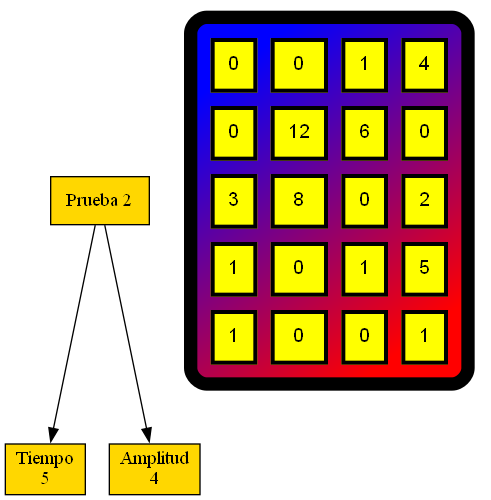
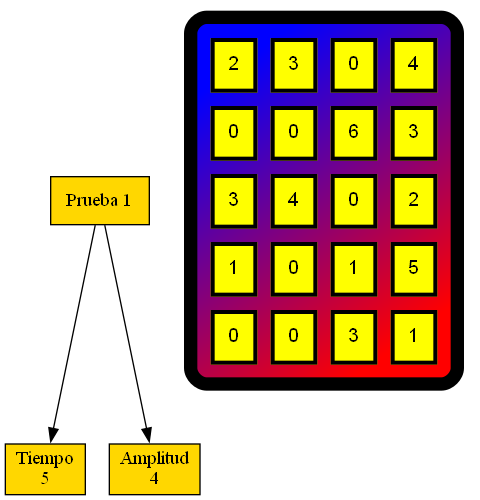
intento de suma de matriz

diff --git a/lista_signals.py b/lista_signals.py
@@ -50,7 +50,7 @@ class lista_signals:
         print("")
 
     def calcular_los_patrones(self,nombre_signal):
-        # recorremos la lista de carceles hasta encontrar una coincidencia
+        # recorremos la lista de signals hasta encontrar una coincidencia
         actual = self.primero
         while actual != None:
         # Si entra al if, es por que encontramos la signall que queremos
@@ -78,41 +78,18 @@ class lista_signals:
                         buffer=""
                 actual.signall.lista_grupos.recorrer_e_imprimir_lista()
 
-                
                 return
             actual=actual.siguiente
         print ("No se encontró la signall")
 
 
-    def imprimir_nombre_signals(self):
-        print("XXXXXXXXXXXXXXXXXXXXXXXXXXXXXXXXXXXXXXXXXXXXXXXXXXXXXXXXXXXXXXXXX")
-        actual = self.primero
-        while actual != None:
-            print(actual.signall.nombre)
-            actual = actual.siguiente
-        print("XXXXXXXXXXXXXXXXXXXXXXXXXXXXXXXXXXXXXXXXXXXXXXXXXXXXXXXXXXXXXXXXX")
-
-    # def grafica_mi_lista_original(self):
+    # def imprimir_nombre_signals(self):
+    #     print("XXXXXXXXXXXXXXXXXXXXXXXXXXXXXXXXXXXXXXXXXXXXXXXXXXXXXXXXXXXXXXXXX")
     #     actual = self.primero
     #     while actual != None:
-    #         dot = actual.signall.lista_datos.graficar(actual.signall.nombre,
-    #                                                    str(actual.signall.tiempo),
-    #                                                    str(actual.signall.amplitud))
-    #         # actual.signal.lista_patrones_dato.recorrer_e_imprimir_lista()
+    #         print(actual.signall.nombre)
     #         actual = actual.siguiente
-
-        # return dot
-
-    def grafica_mi_lista_de_patrones(self):
-        actual = self.primero
-        while actual != None:
-            dot= actual.signall.lista_patrones_datos.graficar(actual.signall.nombre,
-                                                                str(actual.signall.tiempo),
-                                                                str(actual.signall.amplitud))
-            # actual.signal.lista_patrones_dato.recorrer_e_imprimir_lista()
-            actual = actual.siguiente
-
-        return dot
+    #     print("XXXXXXXXXXXXXXXXXXXXXXXXXXXXXXXXXXXXXXXXXXXXXXXXXXXXXXXXXXXXXXXXX")
 
     # graficar mi_lista_original colocando el nombre de la señal
     def graficar_mi_lista_original(self, nombre_signal):
@@ -122,6 +99,18 @@ class lista_signals:
                 dot = actual.signall.lista_datos.graficar(actual.signall.nombre,
                                                            str(actual.signall.tiempo),
                                                            str(actual.signall.amplitud))
+                # actual.signal.lista_patrones_dato.recorrer_e_imprimir_lista()
+                return dot
+            actual = actual.siguiente
+
+    # graficar lista_patrones_datos colocando el nombre de la señal
+    def graficar_lista_patrones_datos(self, nombre_signal):
+        actual = self.primero
+        while actual != None:
+            if actual.signall.nombre == nombre_signal:
+                dot = actual.signall.lista_grupos.graficar(actual.signall.nombre,
+                                                                    str(actual.signall.tiempo),
+                                                                    str(actual.signall.amplitud))
                 # actual.signal.lista_patrones_dato.recorrer_e_imprimir_lista()
                 return dot
             actual = actual.siguiente

diff --git a/lista_datos.py b/lista_datos.py
@@ -92,13 +92,15 @@ a0 [shape=none label=<
 }        
 """
         return text
-    
 
     def devolver_cadena_del_grupo(self,grupo):
         string_resultado=""
         string_temporal=""
         buffer=""
-        # viene un parametro llamado grupo, es un string con este formato "1,2"
+        string_temporal2=""
+        string_auxiliar=""
+        contador=0
+        # viene un parametro llamado grupo, es un string con este formato "1,3"
         # recorremos caracter por caracter
         for digito in grupo:
         #si es digito
@@ -108,15 +110,34 @@ a0 [shape=none label=<
             else:
                 # si no es buffer, lo vaciamos
                 string_temporal=""
-                #recorremos la lista y recuperamos los valores para este grupo
+                string_temporal2=""
+                string_resultado=""
+                #recorremos *TODA* la lista y recuperamos los valores para este grupo
                 actual = self.primero
                 while actual != None:
                 # si encontramos coincidencia del digito y el tiempo , obtenemos su valor
-                    if actual.dato.tiempo==int(buffer):
+
+                    if actual.dato.tiempo==int(buffer) and len(string_auxiliar)!=0: #significa que ya se dio una vuelta
+                        print(len(string_resultado))
+                        string_temporal2=str(actual.dato.frecuencia)
+                        # se suma string_temporal con buffer2
+                        string_temporal+=str(int(string_temporal2)+int(string_auxiliar[contador]))+","
+                        contador+=2
+
+                    elif actual.dato.tiempo==int(buffer):
                         string_temporal+=str(actual.dato.frecuencia)+","
+
                     actual = actual.siguiente
-                string_resultado+=string_temporal+"\n"
+                    
+                string_resultado+=string_temporal
                 buffer=""
+                contador=0
+
+        # # se elimina el inicio del strign que no se necesita
+        # palabra= "2,3,0,4,5,7,0,6"
+        # #imprimir desde el 5 hsta el 6
+        # print(palabra[8:])
+
         #devolvemos el string resultado
         return string_resultado
     

diff --git a/lista_grupos.py b/lista_grupos.py
@@ -21,6 +21,42 @@ class lista_grupos:
     print("===========================================================================================")
     actual = self.primero
     while actual != None:
-      print(" Grupo: ",actual.grupo.el_grupo,"Cadena-grupo: ",actual.grupo.cadena_grupo)
+      print("Grupo: ",actual.grupo.el_grupo,"Cadena-grupo: ",actual.grupo.cadena_grupo)
       actual = actual.siguiente
     print("===========================================================================================")
+
+  #obtner el tamño de la cadena antes del salto de linea
+  def obtener_amplitud(self):
+    actual=self.primero
+    size_cadena= 0
+    
+    for i in range(len(actual.grupo.cadena_grupo)):
+      #si es una coma no se cuenta
+      if actual.grupo.cadena_grupo[i]!="\n":
+        size_cadena+=1
+      else:
+        break
+    
+    print("la amplitud es de:",size_cadena)
+    print("la cadena es de:",len(actual.grupo.cadena_grupo))
+    return size_cadena
+
+
+  # # sumar cadena_grupo de cada grupo
+  # def sumar_cadena_grupo(self):
+  #   string_resultado=""
+  #   string_temporal=""
+  #   actual = self.primero
+  #   amplitud=self.obtener_amplitud()
+  #   #se recorren todos los nodos
+  #   while actual != None:
+  #     # se suma lo de la derecha del salto de linea con lo de la izquierda del salto de linea, ej: "2,3,X,5,8"
+  #     # da como resultado "7,11"
+  #     for i in range(len(actual.grupo.cadena_grupo)):
+
+  #       string_temporal+=str(int(actual.grupo.cadena_grupo[i-1])+ int(actual.grupo.cadena_grupo[amplitud+1])) 
+
+  #     actual = actual.siguiente
+
+
+

diff --git a/main.py b/main.py
@@ -78,11 +78,11 @@ def generar_grafica_original(nombreGrafica,nombreSignal):
         print("Grafica generada")
 
 
-def generar_grafica_patrones(nombreGrafica):
+def generar_grafica_patrones(nombreGrafica,nombreSignal):
         nombre = nombreGrafica+".dot"
         f = open(nombre, 'w')
          # se guara todo el texto y se cierra el archivo 
-        f.write(str(lista_signals_temporal.grafica_mi_lista_de_patrones()))
+        f.write(str(lista_signals_temporal.graficar_lista_patrones_datos(nombreSignal)))
         f.close()
         os.environ["PATH"] += os.pathsep + 'C:/Program Files/Graphviz/bin' 
         # se pasa el archivo a png
@@ -90,9 +90,9 @@ def generar_grafica_patrones(nombreGrafica):
         print("Grafica de patrones generada")
 
 
-# lista_signals_temporal.recorrer_e_imprimir_lista()
+lista_signals_temporal.recorrer_e_imprimir_lista()
 lista_signals_temporal.calcular_los_patrones("Prueba 1")
 # lista_signals_temporal.imprimir_nombre_signals()
 
-generar_grafica_original("Matriz", "Prueba 3")
-# generar_grafica_patrones("MatrizPatrones")
+# generar_grafica_original("Matriz", "Prueba 1")
+# generar_grafica_patrones("MatrizPatrones", "Prueba 1") 
